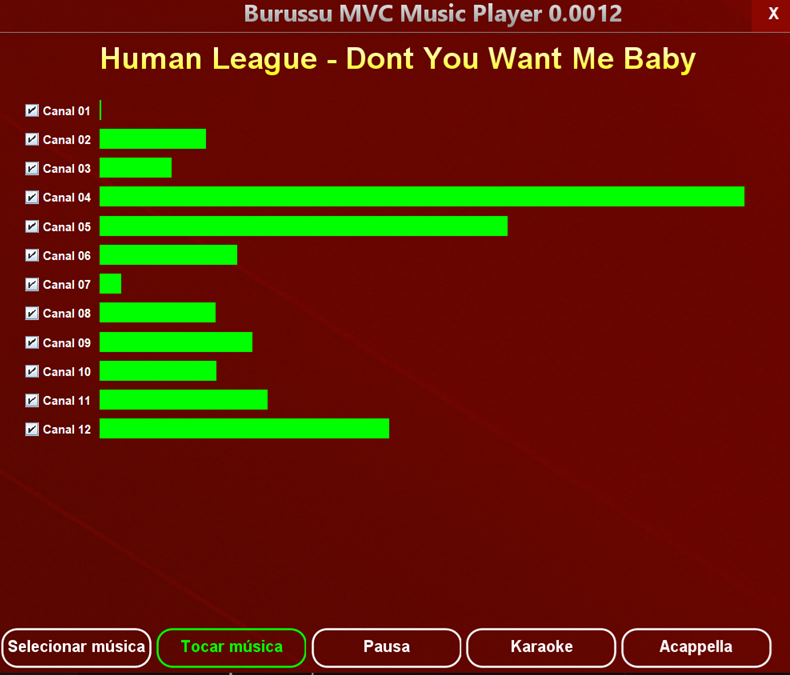
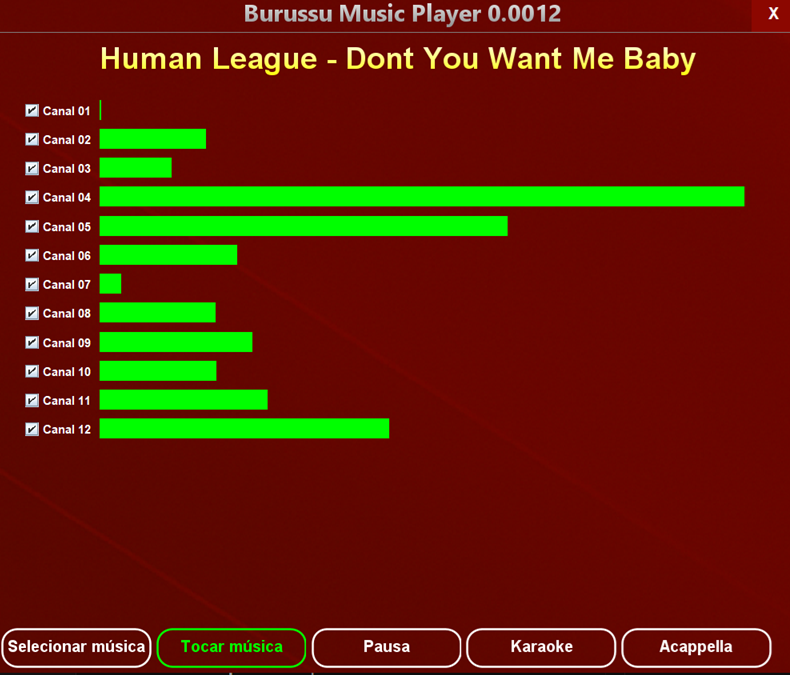
updated app title / version.

Changed region(s): [[0.4253, 0.0, 0.7899, 0.0311]]

diff --git a/src/io/github/mauriciobraga/burussumusicplayer/app/Burussu_App.java b/src/io/github/mauriciobraga/burussumusicplayer/app/Burussu_App.java
@@ -5,7 +5,7 @@ import io.github.mauriciobraga.burussumusicplayer.view.BurussuView;
 
 public class Burussu_App {
     public static void main(String[] args) {
-        BurussuView view = new BurussuView("Burussu MVC Music Player 0.0012");
+        BurussuView view = new BurussuView("Burussu Music Player 0.0014");
         new BurussuController(view);
     }
 }